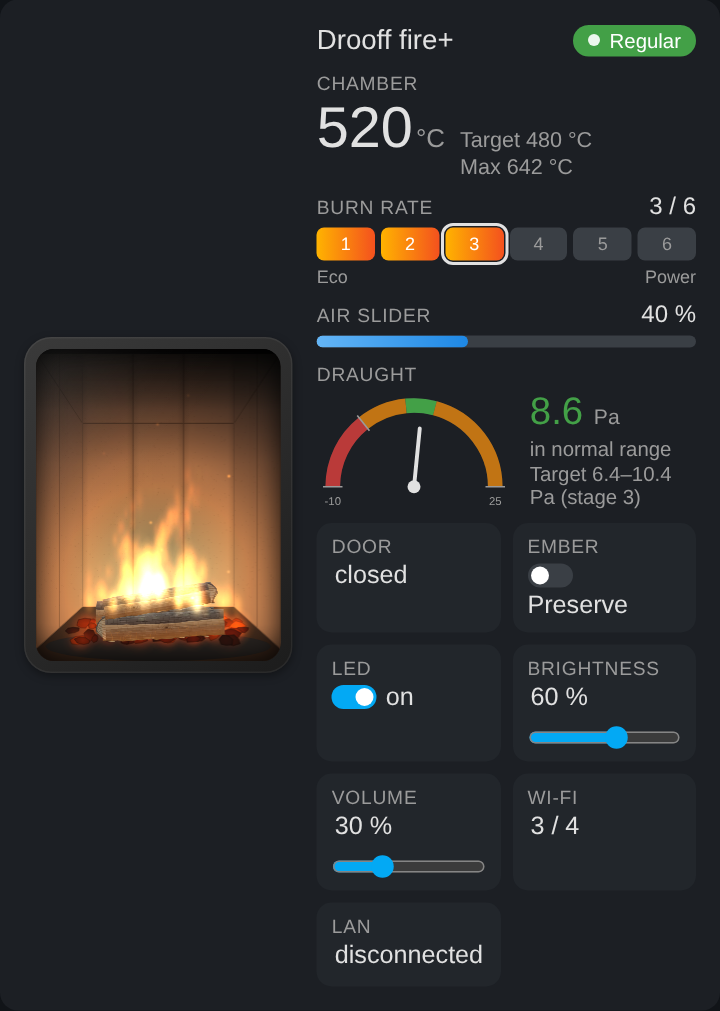
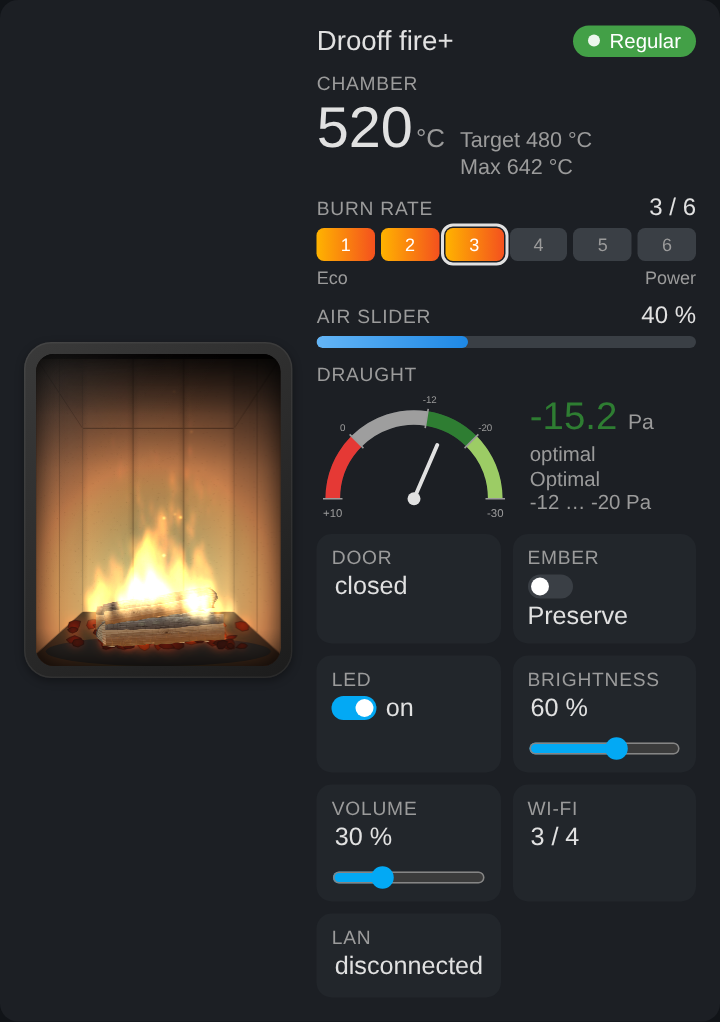
Invert draught gauge

diff --git a/custom_components/drooff_fireplus/frontend/drooff-fireplus-card.js b/custom_components/drooff_fireplus/frontend/drooff-fireplus-card.js
@@ -90,13 +90,11 @@ const DEFAULTS = {
   wood_days: 7,
   wood_per_load: 2,
   draught_display: "tile",
-  draught_min: -10,
-  draught_max: 25,
-  draught_part_load: 6,
-  draught_part_stage: 1,
-  draught_full_load: 12,
-  draught_full_stage: 6,
-  draught_tolerance: 2,
+  draught_min: -30,
+  draught_max: 10,
+  draught_optimal_from: -12,
+  draught_optimal_to: -20,
+  draught_invert: true,
   language: "auto", min_temperature: 80, max_temperature: 600, log_weight: 0.9, controls: true, layout: "auto", wall: "chamotte" };
 
 /* find the entities of the integration */
@@ -183,12 +181,12 @@ const I18N = {
     wood_usage: "Holzverbrauch (geschätzt)",
     now: "jetzt",
     no_history: "Noch keine Verlaufsdaten.",
-    draught_target: "Soll",
+    draught_target: "Optimal",
     stage: "Stufe",
-    draught_ok: "im Normbereich",
-    draught_low: "zu niedrig",
-    draught_high: "zu hoch",
-    draught_negative: "kein Zug (Überdruck)",
+    draught_ok: "optimal",
+    draught_low: "schwacher Zug",
+    draught_high: "OK (starker Zug)",
+    draught_negative: "Überdruck",
     error: "Fehler",
     not_found: "Keine Drooff fire+ Entitäten gefunden. Bitte `device` oder `entities` konfigurieren.",
     editor: {
@@ -208,11 +206,9 @@ const I18N = {
       advanced: "Erweitert: Kaminzug",
       draught_min: "Skala von (Pa)",
       draught_max: "Skala bis (Pa)",
-      draught_part_load: "Sollwert Teillast (Pa)",
-      draught_part_stage: "Teillast = Stufe",
-      draught_full_load: "Sollwert Volllast (Pa)",
-      draught_full_stage: "Volllast = Stufe",
-      draught_tolerance: "Normbereich ± (Pa)",
+      draught_optimal_from: "Optimal ab (Pa)",
+      draught_optimal_to: "Optimal bis (Pa)",
+      draught_invert: "Sensorwert als Unterdruck lesen (Vorzeichen drehen)",
       lang_auto: "Automatisch (Benutzersprache)",
       draught_tile: "Kachel",
       draught_gauge: "Zeigerinstrument (Gauge)",
@@ -315,12 +311,12 @@ const I18N = {
     wood_usage: "Wood usage (estimated)",
     now: "now",
     no_history: "No history data yet.",
-    draught_target: "Target",
+    draught_target: "Optimal",
     stage: "stage",
-    draught_ok: "in normal range",
-    draught_low: "too low",
-    draught_high: "too high",
-    draught_negative: "no negative pressure",
+    draught_ok: "optimal",
+    draught_low: "weak draught",
+    draught_high: "OK (strong draught)",
+    draught_negative: "overpressure",
     error: "Error",
     not_found: "No Drooff fire+ entities found. Please configure `device` or `entities`.",
     editor: {
@@ -340,11 +336,9 @@ const I18N = {
       advanced: "Advanced: draught",
       draught_min: "Scale from (Pa)",
       draught_max: "Scale to (Pa)",
-      draught_part_load: "Target part load (Pa)",
-      draught_part_stage: "Part load = stage",
-      draught_full_load: "Target full load (Pa)",
-      draught_full_stage: "Full load = stage",
-      draught_tolerance: "Normal range ± (Pa)",
+      draught_optimal_from: "Optimal from (Pa)",
+      draught_optimal_to: "Optimal to (Pa)",
+      draught_invert: "Read sensor value as negative pressure (flip sign)",
       lang_auto: "Automatic (user language)",
       draught_tile: "Tile",
       draught_gauge: "Gauge",
@@ -445,12 +439,12 @@ const I18N = {
     wood_usage: "Houtverbruik (geschat)",
     now: "nu",
     no_history: "Nog geen historische gegevens.",
-    draught_target: "Doel",
+    draught_target: "Optimaal",
     stage: "stand",
-    draught_ok: "binnen normaal bereik",
-    draught_low: "te laag",
-    draught_high: "te hoog",
-    draught_negative: "geen trek (overdruk)",
+    draught_ok: "optimaal",
+    draught_low: "zwakke trek",
+    draught_high: "OK (sterke trek)",
+    draught_negative: "overdruk",
     error: "Fout",
     not_found: "Geen Drooff fire+ entiteiten gevonden. Stel `device` of `entities` in.",
     editor: {
@@ -548,12 +542,12 @@ const I18N = {
     wood_usage: "Consommation de bois (estimée)",
     now: "maintenant",
     no_history: "Pas encore de données d'historique.",
-    draught_target: "Consigne",
+    draught_target: "Optimal",
     stage: "niveau",
-    draught_ok: "dans la plage normale",
-    draught_low: "trop faible",
-    draught_high: "trop fort",
-    draught_negative: "pas de tirage (surpression)",
+    draught_ok: "optimal",
+    draught_low: "tirage faible",
+    draught_high: "OK (tirage fort)",
+    draught_negative: "surpression",
     error: "Erreur",
     not_found: "Aucune entité Drooff fire+ trouvée. Veuillez configurer `device` ou `entities`.",
     editor: {
@@ -651,12 +645,12 @@ const I18N = {
     wood_usage: "Consumo di legna (stimato)",
     now: "ora",
     no_history: "Nessun dato storico.",
-    draught_target: "Obiettivo",
+    draught_target: "Ottimale",
     stage: "livello",
-    draught_ok: "nel range normale",
-    draught_low: "troppo basso",
-    draught_high: "troppo alto",
-    draught_negative: "nessun tiraggio (sovrapressione)",
+    draught_ok: "ottimale",
+    draught_low: "tiraggio debole",
+    draught_high: "OK (tiraggio forte)",
+    draught_negative: "sovrapressione",
     error: "Errore",
     not_found: "Nessuna entità Drooff fire+ trovata. Configurare `device` o `entities`.",
     editor: {
@@ -754,12 +748,12 @@ const I18N = {
     wood_usage: "Zużycie drewna (szacunkowe)",
     now: "teraz",
     no_history: "Brak danych historycznych.",
-    draught_target: "Cel",
+    draught_target: "Optymalnie",
     stage: "stopień",
-    draught_ok: "w normie",
-    draught_low: "za niski",
-    draught_high: "za wysoki",
-    draught_negative: "brak ciągu (nadciśnienie)",
+    draught_ok: "optymalny",
+    draught_low: "słaby ciąg",
+    draught_high: "OK (silny ciąg)",
+    draught_negative: "nadciśnienie",
     error: "Błąd",
     not_found: "Nie znaleziono encji Drooff fire+. Skonfiguruj `device` lub `entities`.",
     editor: {
@@ -857,12 +851,12 @@ const I18N = {
     wood_usage: "Spotřeba dřeva (odhad)",
     now: "nyní",
     no_history: "Zatím žádná historická data.",
-    draught_target: "Cíl",
+    draught_target: "Optimum",
     stage: "stupeň",
-    draught_ok: "v normálním rozsahu",
-    draught_low: "příliš nízký",
-    draught_high: "příliš vysoký",
-    draught_negative: "žádný tah (přetlak)",
+    draught_ok: "optimální",
+    draught_low: "slabý tah",
+    draught_high: "OK (silný tah)",
+    draught_negative: "přetlak",
     error: "Chyba",
     not_found: "Nenalezeny žádné entity Drooff fire+. Nastavte `device` nebo `entities`.",
     editor: {
@@ -960,12 +954,12 @@ const I18N = {
     wood_usage: "Brændeforbrug (anslået)",
     now: "nu",
     no_history: "Ingen historikdata endnu.",
-    draught_target: "Mål",
+    draught_target: "Optimalt",
     stage: "trin",
-    draught_ok: "i normalområdet",
-    draught_low: "for lavt",
-    draught_high: "for højt",
-    draught_negative: "intet træk (overtryk)",
+    draught_ok: "optimalt",
+    draught_low: "svagt træk",
+    draught_high: "OK (kraftigt træk)",
+    draught_negative: "overtryk",
     error: "Fejl",
     not_found: "Ingen Drooff fire+ enheder fundet. Angiv `device` eller `entities`.",
     editor: {
@@ -2512,7 +2506,7 @@ class DrooffFireplusCard extends HTMLElement {
     const dr = this._st("draught");
     let gauge = "";
     if (this._show("draught") && usable(dr)) {
-      const v = num(dr);
+      const v = this._draughtValue(num(dr));
       if (cfg.draught_display === "gauge" && Number.isFinite(v)) gauge = this._draughtGauge(v, t);
       else tiles.push(this._tile(t.draught, "mdi:weather-windy", `${Number.isFinite(v) ? v.toFixed(1) : dr.state} Pa`));
     }
@@ -2602,72 +2596,76 @@ class DrooffFireplusCard extends HTMLElement {
     }
   }
 
-  /* target draught for the current burn rate: linear between part and full load */
-  _draughtTarget() {
-    const c = this._config;
-    const br = num(this._st("burn_rate"));
-    const s0 = Number(c.draught_part_stage);
-    const s1 = Number(c.draught_full_stage);
-    const p0 = Number(c.draught_part_load);
-    const p1 = Number(c.draught_full_load);
-    const stage = Number.isFinite(br) ? br : s0;
-    const f = s1 === s0 ? 0 : clamp((stage - s0) / (s1 - s0));
-    return { target: p0 + (p1 - p0) * f, stage: Number.isFinite(br) ? Math.round(br) : null };
+  /* the fire+ reports draught as a positive number; physically it is negative pressure */
+  _draughtValue(v) {
+    if (!Number.isFinite(v)) return v;
+    return this._config.draught_invert === false ? v : v === 0 ? 0 : -v;
   }
 
+  /* gauge from draught_max (left, overpressure) to draught_min (right, strong draught) */
   _draughtGauge(v, t) {
     const c = this._config;
-    const min = Number(c.draught_min);
-    const max = Number(c.draught_max) > min ? Number(c.draught_max) : min + 1;
-    const tol = Math.max(0, Number(c.draught_tolerance));
-    const { target, stage } = this._draughtTarget();
-    const lo = target - tol;
-    const hi = target + tol;
+    const num0 = (x, d) => (Number.isFinite(Number(x)) ? Number(x) : d);
+    const max = num0(c.draught_max, DEFAULTS.draught_max);
+    const min = num0(c.draught_min, DEFAULTS.draught_min) < max ? num0(c.draught_min, DEFAULTS.draught_min) : max - 1;
+    const o1 = num0(c.draught_optimal_from, DEFAULTS.draught_optimal_from);
+    const o2 = num0(c.draught_optimal_to, DEFAULTS.draught_optimal_to);
+    const hi = Math.min(0, Math.max(o1, o2)); /* weak end of the optimum, e.g. -12 */
+    const lo = Math.min(o1, o2); /* strong end of the optimum, e.g. -20 */
     const R = 50;
     const CX = 60;
     const CY = 58;
-    const ang = (x) => Math.PI * (1 - clamp((x - min) / (max - min)));
+    const ang = (x) => Math.PI * clamp((x - min) / (max - min));
     const pt = (x, r = R) => [CX + Math.cos(ang(x)) * r, CY - Math.sin(ang(x)) * r];
     const arc = (a, b, color, w = 9) => {
       a = Math.max(min, a);
       b = Math.min(max, b);
       if (b <= a) return "";
-      const [x0, y0] = pt(a);
-      const [x1, y1] = pt(b);
+      const [x0, y0] = pt(b);
+      const [x1, y1] = pt(a);
       return `<path d="M${x0.toFixed(2)} ${y0.toFixed(2)} A${R} ${R} 0 0 1 ${x1.toFixed(2)} ${y1.toFixed(2)}" stroke="${color}" stroke-width="${w}" fill="none"/>`;
     };
-    const inBand = v >= lo && v <= hi;
-    const col = v < 0 ? "#e53935" : inBand ? "#43a047" : "#fb8c00";
+    const C_OVER = "#e53935";
+    const C_WEAK = "#9e9e9e";
+    const C_OPT = "#2e7d32";
+    const C_OK = "#9ccc65";
+    const zone = v > 0 ? "over" : v > hi ? "weak" : v >= lo ? "opt" : "ok";
+    const col = { over: C_OVER, weak: "var(--secondary-text-color)", opt: C_OPT, ok: "#7cb342" }[zone];
+    const status = { over: t.draught_negative, weak: t.draught_low, opt: t.draught_ok, ok: t.draught_high }[zone];
     const [nx, ny] = pt(clamp(v, min, max), R - 14);
-    const ticks = [min, 0, max]
+    const fmt = (x) => x.toLocaleString(lang(this._hass, this._config), { maximumFractionDigits: 1, signDisplay: "exceptZero" });
+    const ticks = [max, 0, hi, lo, min]
+      .filter((x, i, a) => x >= min && x <= max && a.indexOf(x) === i)
       .map((x) => {
         const [a, b] = pt(x, R + 6);
         const [c2, d] = pt(x, R - 6);
-        return `<line x1="${a.toFixed(2)}" y1="${b.toFixed(2)}" x2="${c2.toFixed(2)}" y2="${d.toFixed(2)}" stroke="var(--secondary-text-color)" stroke-width="1"/>`;
+        const [tx, ty] = pt(x, R + 12);
+        const edge = x === min || x === max;
+        return `<line x1="${a.toFixed(2)}" y1="${b.toFixed(2)}" x2="${c2.toFixed(2)}" y2="${d.toFixed(2)}" stroke="var(--secondary-text-color)" stroke-width="1"/>${
+          edge ? "" : `<text x="${tx.toFixed(2)}" y="${(ty + 2).toFixed(2)}" font-size="6" text-anchor="middle" fill="var(--secondary-text-color)">${fmt(x)}</text>`
+        }`;
       })
       .join("");
-    const fmt = (x) => x.toLocaleString(lang(this._hass, this._config), { maximumFractionDigits: 1 });
-    const status = v < 0 ? t.draught_negative : v < lo ? t.draught_low : v > hi ? t.draught_high : t.draught_ok;
     return `
       <div class="row gauge-row">
         <div class="top"><span class="label">${t.draught}</span></div>
         <div class="gauge-wrap">
-          <svg class="gauge" viewBox="0 0 120 70">
+          <svg class="gauge" viewBox="0 -8 120 78">
             ${arc(min, max, "var(--divider-color, rgba(127,127,127,0.3))")}
-            ${arc(min, 0, "rgba(229,57,53,0.75)")}
-            ${arc(0, lo, "rgba(251,140,0,0.7)")}
-            ${arc(lo, hi, "#43a047")}
-            ${arc(hi, max, "rgba(251,140,0,0.7)")}
+            ${arc(0, max, C_OVER)}
+            ${arc(hi, 0, C_WEAK)}
+            ${arc(lo, hi, C_OPT)}
+            ${arc(min, lo, C_OK)}
             ${ticks}
             <line x1="${CX}" y1="${CY}" x2="${nx.toFixed(2)}" y2="${ny.toFixed(2)}" stroke="var(--primary-text-color)" stroke-width="2.4" stroke-linecap="round" style="transition: all 1s"/>
             <circle cx="${CX}" cy="${CY}" r="4" fill="var(--primary-text-color)"/>
-            <text x="${CX - R}" y="69" font-size="7" text-anchor="middle" fill="var(--secondary-text-color)">${fmt(min)}</text>
-            <text x="${CX + R}" y="69" font-size="7" text-anchor="middle" fill="var(--secondary-text-color)">${fmt(max)}</text>
+            <text x="${CX - R}" y="69" font-size="7" text-anchor="middle" fill="var(--secondary-text-color)">${fmt(max)}</text>
+            <text x="${CX + R}" y="69" font-size="7" text-anchor="middle" fill="var(--secondary-text-color)">${fmt(min)}</text>
           </svg>
           <div class="gauge-text">
             <div class="val" style="font-size:1.6em;font-weight:400;color:${col}">${fmt(v)} <small style="font-size:0.55em;color:var(--secondary-text-color)">Pa</small></div>
             <div class="sub">${esc(status)}</div>
-            <div class="sub">${t.draught_target} ${fmt(lo)}–${fmt(hi)} Pa${stage !== null ? ` (${t.stage} ${stage})` : ""}</div>
+            <div class="sub">${t.draught_target} <span style="white-space:nowrap">${fmt(hi)} … ${fmt(lo)} Pa</span></div>
           </div>
         </div>
       </div>`;
@@ -3307,15 +3305,13 @@ class DrooffFireplusCardEditor extends HTMLElement {
             type: "grid",
             name: "",
             schema: [
-              ["draught_min", -50, 0, 1],
-              ["draught_max", 5, 100, 1],
-              ["draught_part_load", 0, 50, 0.5],
-              ["draught_part_stage", 1, 7, 1],
-              ["draught_full_load", 0, 50, 0.5],
-              ["draught_full_stage", 1, 7, 1],
-              ["draught_tolerance", 0, 20, 0.5],
+              ["draught_min", -100, 0, 1],
+              ["draught_max", 0, 50, 1],
+              ["draught_optimal_from", -100, 0, 0.5],
+              ["draught_optimal_to", -100, 0, 0.5],
             ].map(([name, min, max, step]) => ({ name, selector: { number: { min, max, step, mode: "box" } } })),
           },
+          { name: "draught_invert", selector: { boolean: {} } },
         ],
       },
       {
